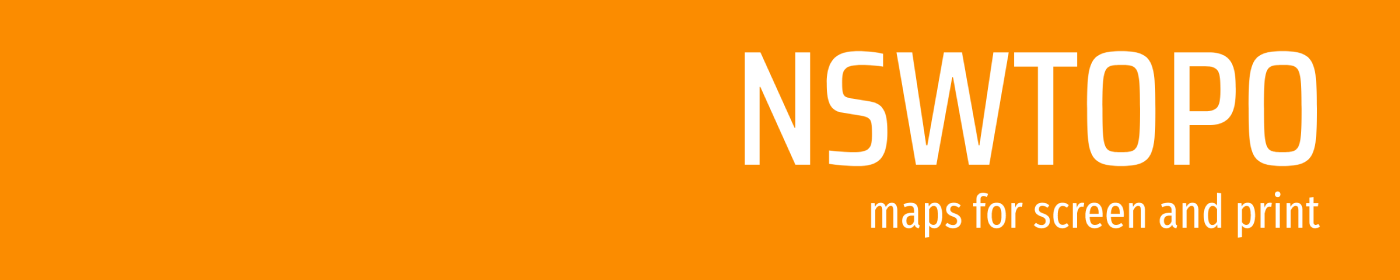
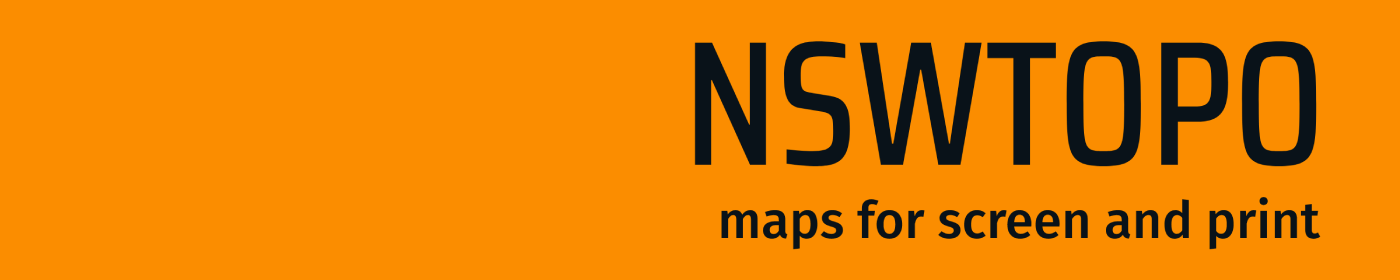
improve text contrast over orange theme

Changed region(s): [[0.4914, 0.1429, 0.9521, 0.6], [0.4914, 0.6857, 0.9521, 0.8857]]

diff --git a/nswtopo.css b/nswtopo.css
@@ -130,6 +130,9 @@ main > h1 > img {
   flex: 1 1 auto;
   object-fit: contain;
 }
+form.buy > input.shipping ~ button {
+  color: #11191f;
+}
 form.buy > input.shipping ~ button.overseas {
   display: none;
 }
